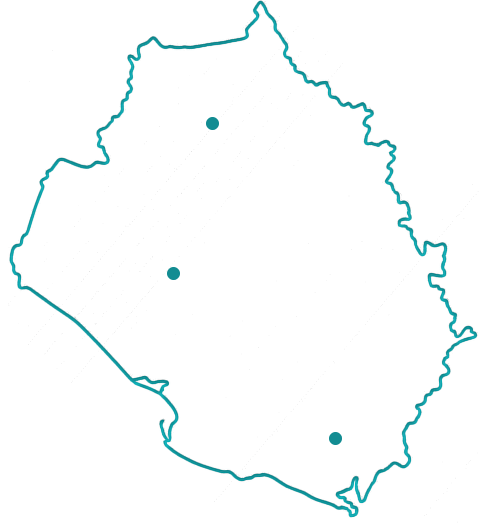
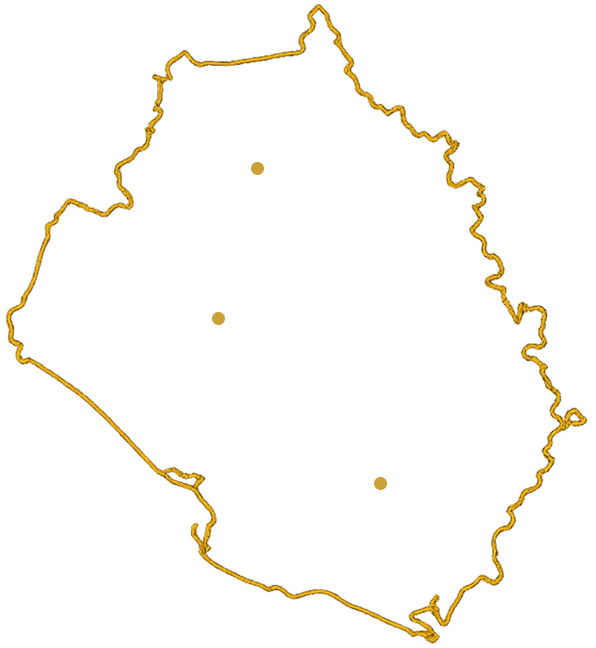
fix: better ui on home page

diff --git a/assets/styles/app.scss b/assets/styles/app.scss
@@ -30,12 +30,12 @@ $secondary: #ffffff;
 
 .headline {
     margin-bottom: 10%;
-
 }
 
-.zoo_map {
-    padding-bottom : 400px;
-} 
+h3 {
+    font-family: "Montserrat", sans-serif;
+    font-weight: 800;
+}
 
 .rate {
     display:flex;
@@ -117,5 +117,63 @@ $secondary: #ffffff;
     user-select: none;
     -webkit-user-select: none;
     touch-action: manipulation;
-        
+}
+
+.zoo-map-overlap {
+  transform: translateY(-100px);
+  position: relative;
+  z-index: 3;
+}
+
+.section-title, .section-title-center {
+  position: relative;
+  padding-bottom: 15px;
+}
+
+.section-title::after {
+  content: '';
+  position: absolute;
+  bottom: 0;
+  left: 0;
+  width: 60px;
+  height: 3px;
+  background-color: #ffd900;
+}
+
+.section-title-center::after {
+  content: '';
+  position: absolute;
+  bottom: 0;
+  left: 50%;
+  transform: translateX(-50%);
+  width: 60px;
+  height: 3px;
+  background-color: #ffd900;
+}
+
+.card-glass {
+  border-radius: 0;
+  background: rgba(255, 255, 255, 0.08);
+  backdrop-filter: blur(10px);
+  -webkit-backdrop-filter: blur(10px);
+  border: 1px solid rgba(255, 255, 255, 0.15);
+  box-shadow: 0 8px 32px rgba(0, 0, 0, 0.2);
+  padding: 10px;
+}
+
+.card-glass .card-body {
+  padding: 4rem 4rem;
+}
+
+.cta-button-card {
+    padding: 10px 40px;
+    text-transform:uppercase;
+    text-decoration: none;
+    border: 1px solid #121212;
+    color:#000000;
+    background-color:#ffd900;
+    font-size: 14px;
+    align-self: flex-start;
+    margin-top: auto;
+    margin-bottom: 10px;
 }
